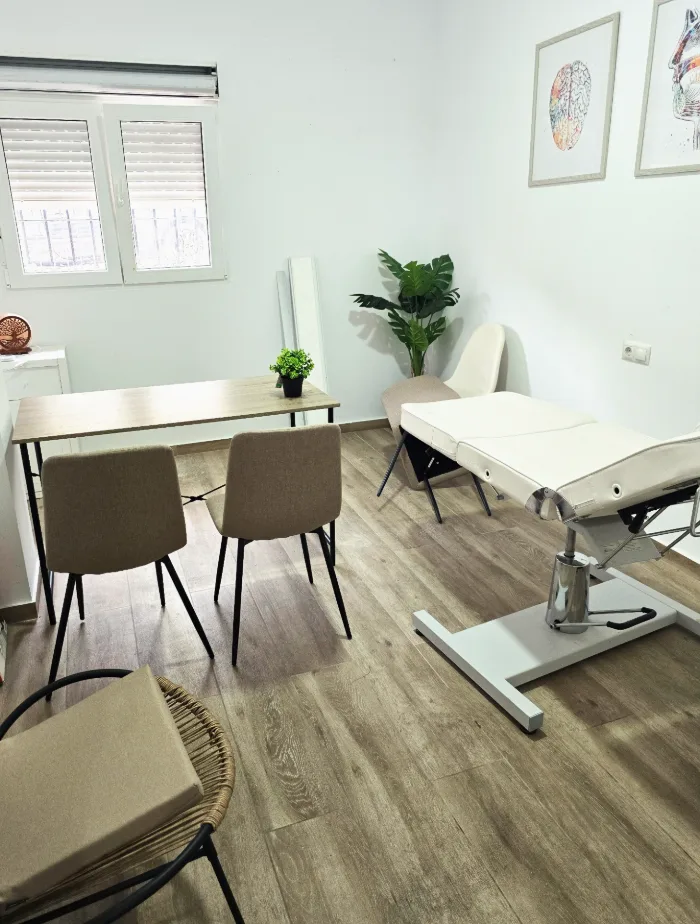
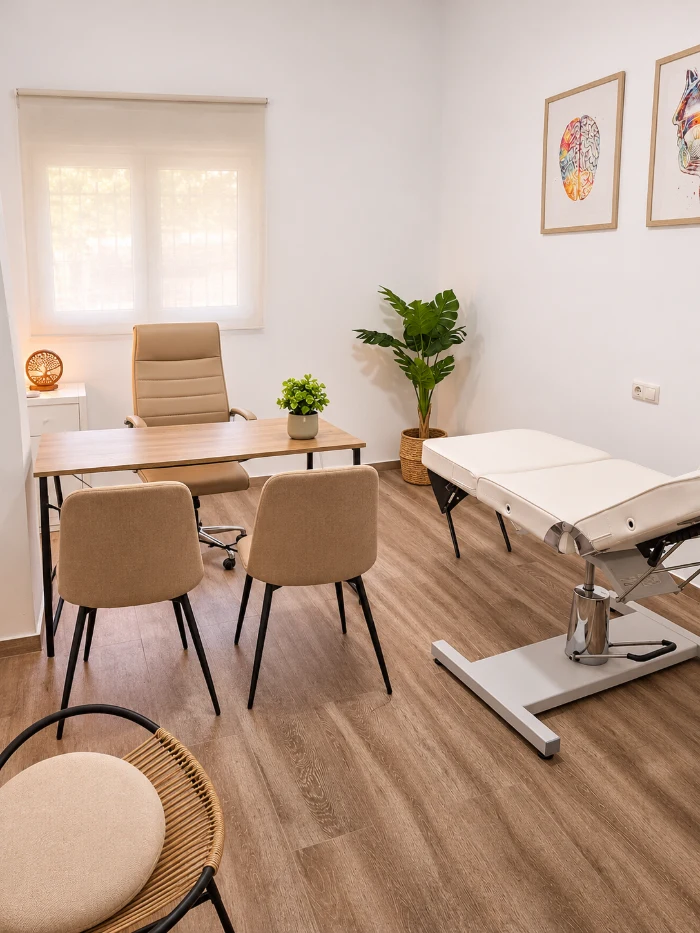
Nueva propuesta visual de instalaciones (vista previa, pendiente de aprobación)
- Portada e imagen OG: versión retocada de la recepción, recortada para eliminar las
  ondulaciones del panel de listones de la izquierda; tono de madera cálido y moderado.
- Regulación: versión retocada de la consulta de José (estor y sillón de despacho).
- Nutrición: versión retocada, más luminosa, del despacho de María José.
- WebP de mayor calidad; sin mariposas. Fotos del equipo sin cambios.

Claude-Session: https://claude.ai/code/session_017dGKsEpDZf72iu9TrRcrvc

diff --git a/app/page.js b/app/page.js
@@ -59,15 +59,15 @@ export default function Home() {
       {/* HERO IMAGE */}
       <section style={{ padding: "0 20px 40px", maxWidth: "950px", margin: "auto" }}>
         <img
-          src="/images/instalaciones/recepcion-1448.webp"
-          srcSet="/images/instalaciones/recepcion-960.webp 960w, /images/instalaciones/recepcion-1448.webp 1448w"
+          src="/images/instalaciones/recepcion-1202.webp"
+          srcSet="/images/instalaciones/recepcion-960.webp 960w, /images/instalaciones/recepcion-1202.webp 1202w"
           sizes="(max-width: 990px) 100vw, 950px"
-          width="1448"
+          width="1202"
           height="1086"
           alt="Recepción de Centro NERÚA en Rincón de la Victoria"
           style={{
             height: "auto",
-            objectPosition: "50% 25%",
+            objectPosition: "50% 22%",
             width: "100%",
             borderRadius: "18px",
             maxHeight: "320px",

diff --git a/app/nutricion-integrativa-malaga/page.js b/app/nutricion-integrativa-malaga/page.js
@@ -92,9 +92,9 @@ export default function Page() {
         </p>
         <ServicePhoto
           src="/images/instalaciones/despacho-maria-jose-800.webp"
-          srcLarge="/images/instalaciones/despacho-maria-jose-1600.webp"
-          width="1600"
-          height="1263"
+          srcLarge="/images/instalaciones/despacho-maria-jose-1448.webp"
+          width="1448"
+          height="1086"
           alt="Despacho de Nutrición digestiva integrativa en Centro NERÚA"
         />
       </ServiceSection>

diff --git a/app/data/seo.js b/app/data/seo.js
@@ -4,7 +4,7 @@
 export const SITE_URL = "https://centronerua.com";
 export const SITE_NAME = "Centro NERÚA";
 
-// Imagen social: recorte de la fotografía de la recepción (versión retocada que conserva mobiliario y distribución; madera ajustada al tono real), 1200×630 en JPG para WhatsApp.
+// Imagen social: recorte de la fotografía retocada de la recepción (presentación comercial), 1200×630 en JPG para WhatsApp.
 export const OG_IMAGE = {
   url: "/images/og/nerua-og-recepcion.jpg",
   width: 1200,

diff --git a/app/regulacion-bienestar-malaga/page.js b/app/regulacion-bienestar-malaga/page.js
@@ -93,9 +93,9 @@ export default function Page() {
         </p>
         <ServicePhoto
           src="/images/instalaciones/consulta-jose-700.webp"
-          srcLarge="/images/instalaciones/consulta-jose-1200.webp"
-          width="1200"
-          height="1583"
+          srcLarge="/images/instalaciones/consulta-jose-1086.webp"
+          width="1086"
+          height="1448"
           alt="Consulta de Regulación del sistema nervioso en Centro NERÚA"
           portrait
         />
